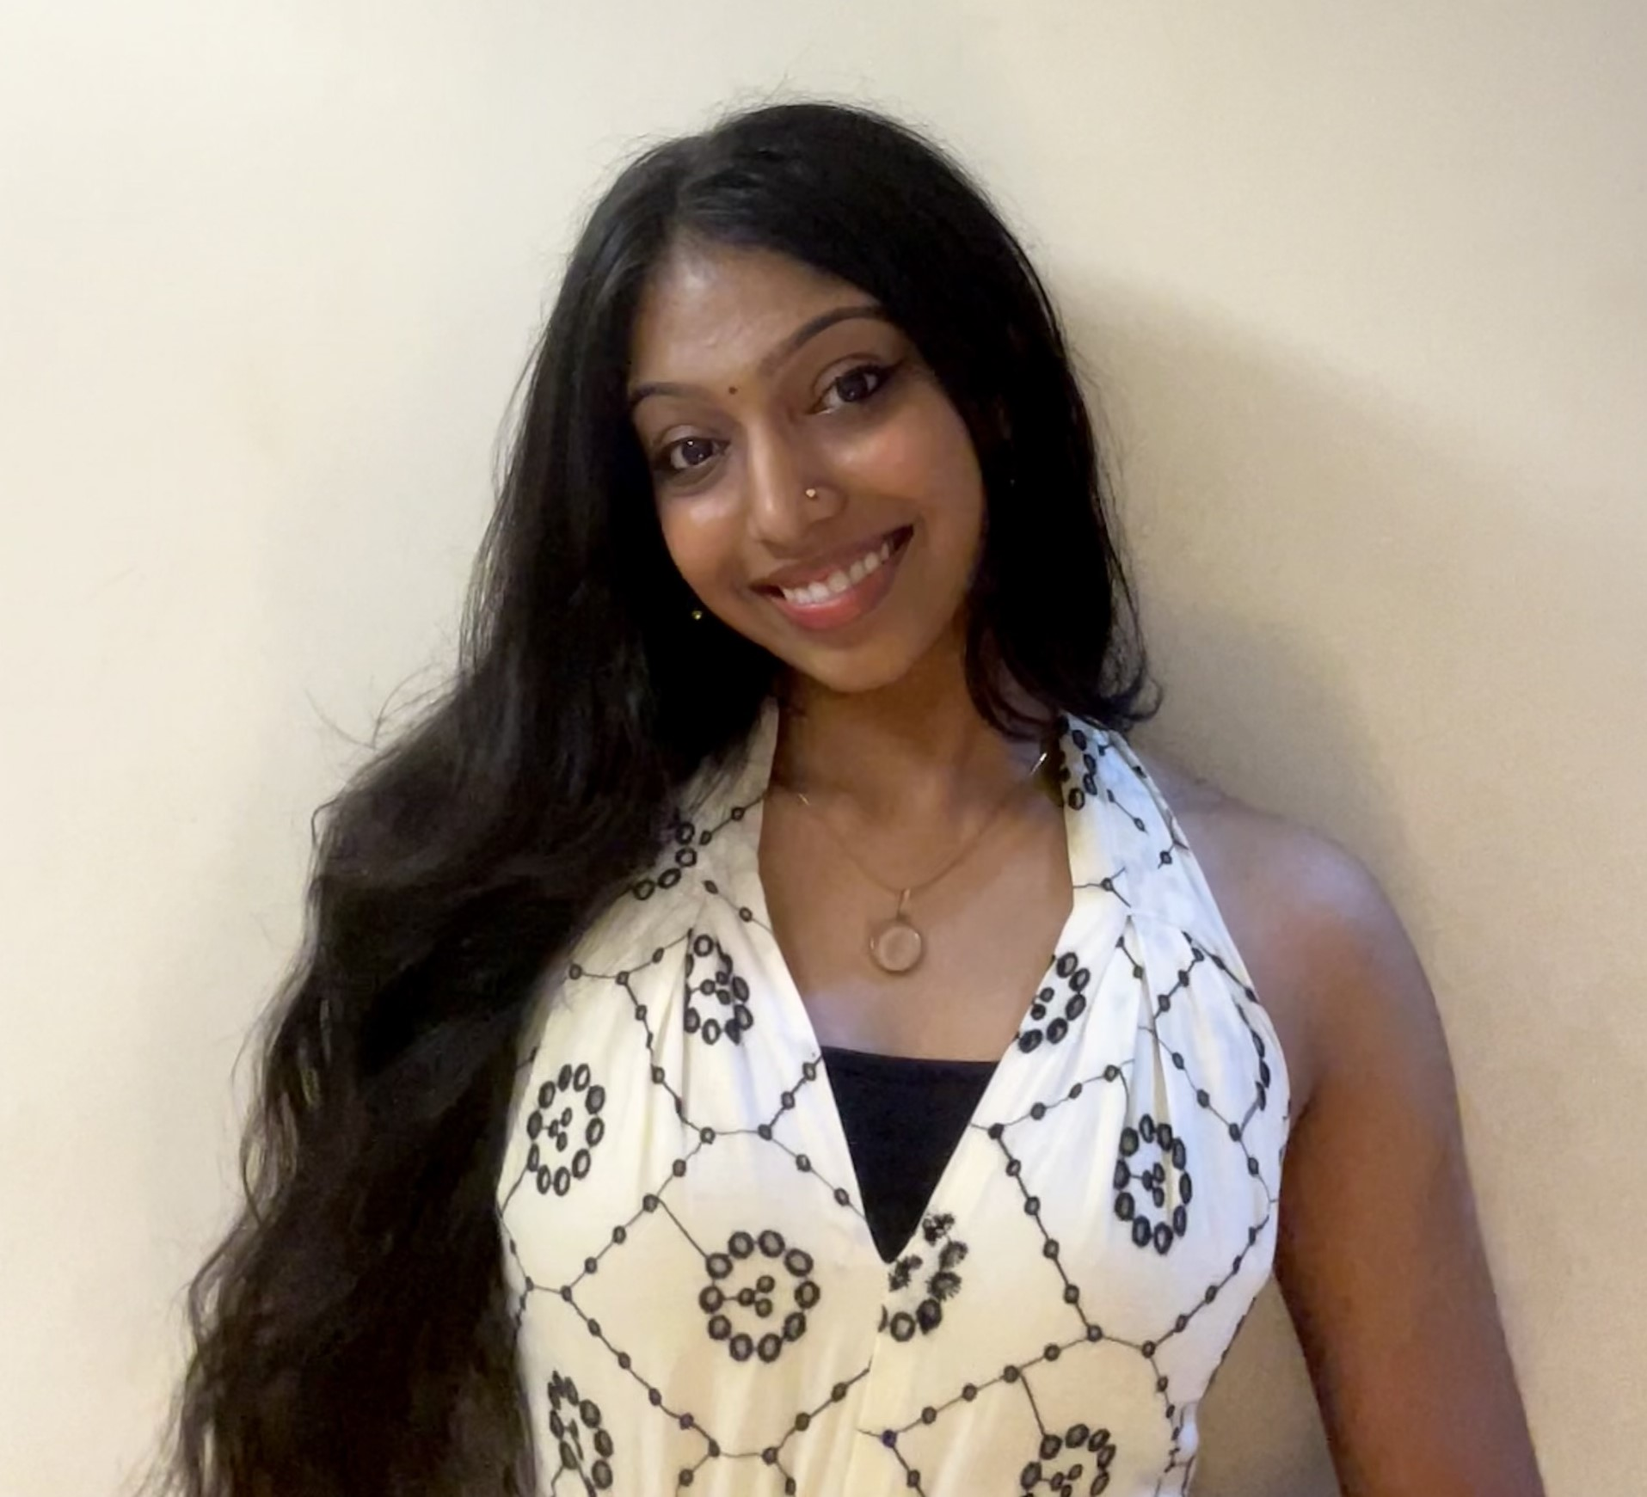
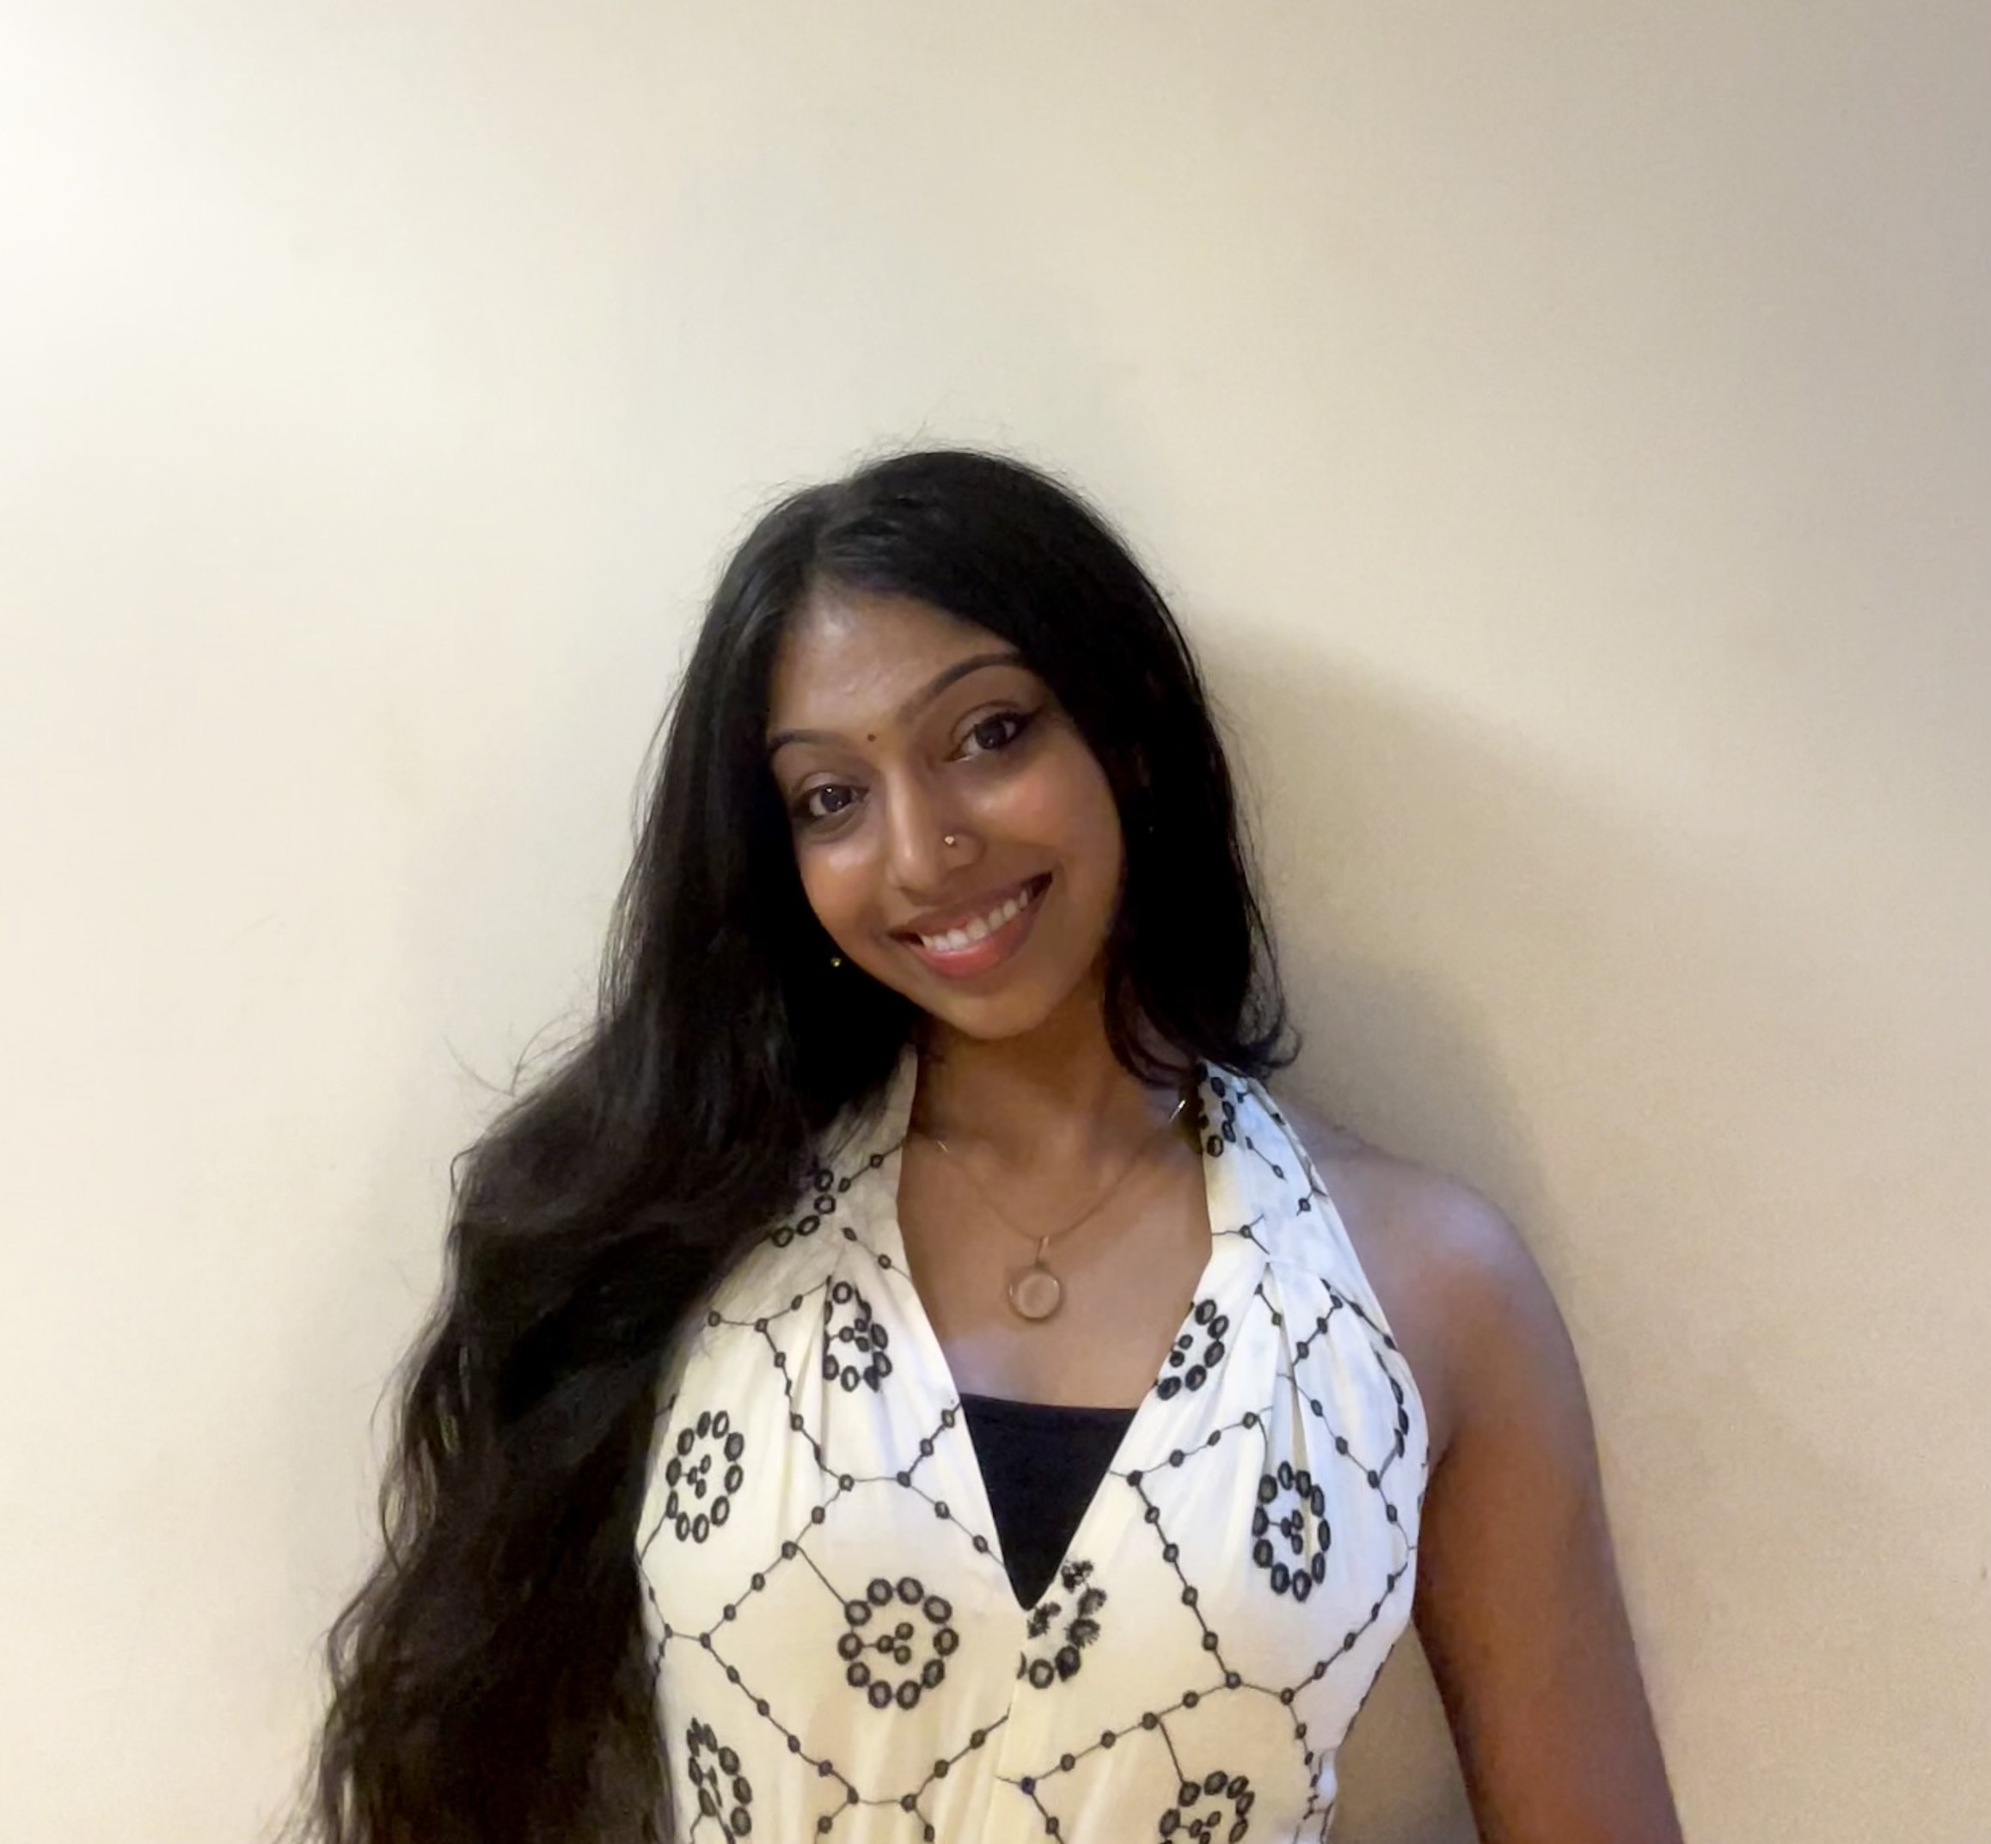
members pic added

diff --git a/app/about/page.tsx b/app/about/page.tsx
@@ -54,16 +54,31 @@ export default function AboutPage() {
     },
   ]
 
-  const executiveTeam = [
+  const coreMembers = [
     {
       name: "Rakshitha",
-      role: "Head",
-      image: "/placeholder.svg?height=100&width=100",
+      role: "President",
+      image: "/members/Rakshitha.jpg",
     },
     {
-      name: "Swayam",
-      role: "Treasurer",
-      image: "/placeholder.svg?height=100&width=100",
+      name: "Swayamprabha",
+      role: "Vice President",
+      image: "/members/swayam.jpg",
+    },
+    {
+      name: "Keerthana",
+      role: "Secretary",
+      image: "/members/keerthanaa.jpg",
+    },
+    {
+      name: "Roshan",
+      role: "Execom Member",
+      image: "/members/Roshan Kumar.jpg",
+    },
+    {
+      name: "Aadhisesha",
+      role: "Execom Member",
+      image: "/members/Aadhisesha.jpg",
     },
   ]
 
@@ -93,27 +108,30 @@ export default function AboutPage() {
     },
     {
       name: "Events",
-      head: { name: "Swetha R Barade", image: "/placeholder.svg?height=100&width=100" },
-      deputy: { name: "Aanisa Maryam", image: "/placeholder.svg?height=100&width=100" },
+      head: { name: "Swetha R Barade", image: "/members/Swetha-R-Barade.jpg" },
+      deputy: { name: "Aanisa Maryam", image: "/members/Anisa Mariyam.jpg" },
       members: [
-        { name: "Roshon R", image: "/placeholder.svg?height=100&width=100" },
-        { name: "Aarya Malviya", image: "/placeholder.svg?height=100&width=100" },
+        { name: "Roshon R", image: "/members/Roshan-support-events-member.jpg" },
+        { name: "Aarya Malviya", image: "/members/Aarya Malviya.jpg" },
       ],
     },
     {
       name: "Industrial Relations",
-      head: { name: "Jeevitha T", image: "/placeholder.svg?height=100&width=100" },
-      deputy: { name: "Veda Varshini R", image: "/placeholder.svg?height=100&width=100" },
+      head: { name: "Jeevitha T", image: "/members/jeevetha.jpg" },
+      deputy: { name: "Veda Varshini R", image: "/members/Veda Varshini image-ieee.jpeg" },
       members: [
-        { name: "K. Mega Sree", image: "/placeholder.svg?height=100&width=100" },
-        { name: "Praveen S", image: "/placeholder.svg?height=100&width=100" },
+        { name: "K. Mega Sree", image: "/members/megasree.k_ industrial relations member.jpg" },
+        { name: "Praveen S", image: "/members/praveen S .jpg" },
       ],
     },
     {
       name: "Design",
-      head: { name: "Srilekha Ramkumar", image: "/placeholder.svg?height=100&width=100" },
-      deputy: { name: "Akshara Achuthan", image: "/placeholder.svg?height=100&width=100" },
-      members: [],
+      head: { name: "Srilekha Ramkumar", image: "/members/Srilekha Ramkumar.jpeg" },
+      deputy: { name: "Akshara Achuthan", image: "/members/Akshara.jpeg" },
+      members: [
+        { name: "Praveena", image: "/members/Praveena R.jpeg" },
+        { name: "Sitheshwar", image: "/members/Sithishwar.JPG" },
+      ],
     },
   ]
 
@@ -285,20 +303,38 @@ export default function AboutPage() {
               </p>
             </div>
           </div>
-          {/* Executive Team */}
-          <div className="mx-auto grid max-w-3xl gap-6 py-8 grid-cols-1 sm:grid-cols-2">
-            {executiveTeam.map((member) => (
-              <Card key={member.name} className="text-center w-56 mx-auto">
-                <CardContent className="p-6">
-                  <Avatar className="w-40 h-40 mx-auto mb-3">
-                    <AvatarImage src={member.image} alt={member.name} />
-                    <AvatarFallback>{member.name[0]}</AvatarFallback>
-                  </Avatar>
-                  <h3 className="text-lg font-bold mb-1">{member.name}</h3>
-                  <Badge variant="secondary">{member.role}</Badge>
-                </CardContent>
-              </Card>
-            ))}
+          {/* Core Members */}
+          <div className="mx-auto max-w-5xl py-8">
+            {/* Top row - 3 members */}
+            <div className="grid grid-cols-1 sm:grid-cols-2 md:grid-cols-3 gap-6 mb-8 justify-items-center">
+              {coreMembers.slice(0, 3).map((member) => (
+                <Card key={member.name} className="text-center w-56">
+                  <CardContent className="p-6">
+                    <Avatar className="w-40 h-40 mx-auto mb-3 rounded-lg">
+                      <AvatarImage src={member.image} alt={member.name} className="rounded-lg" />
+                      <AvatarFallback className="rounded-lg">{member.name[0]}</AvatarFallback>
+                    </Avatar>
+                    <h3 className="text-lg font-bold mb-1">{member.name}</h3>
+                    <Badge variant="secondary">{member.role}</Badge>
+                  </CardContent>
+                </Card>
+              ))}
+            </div>
+            {/* Bottom row - 2 members */}
+            <div className="grid grid-cols-1 sm:grid-cols-2 gap-6 max-w-2xl mx-auto justify-items-center">
+              {coreMembers.slice(3, 5).map((member) => (
+                <Card key={member.name} className="text-center w-56">
+                  <CardContent className="p-6">
+                    <Avatar className="w-40 h-40 mx-auto mb-3 rounded-lg">
+                      <AvatarImage src={member.image} alt={member.name} className="rounded-lg" />
+                      <AvatarFallback className="rounded-lg">{member.name[0]}</AvatarFallback>
+                    </Avatar>
+                    <h3 className="text-lg font-bold mb-1">{member.name}</h3>
+                    <Badge variant="secondary">{member.role}</Badge>
+                  </CardContent>
+                </Card>
+              ))}
+            </div>
           </div>
           {/* Divisions */}
           <div className="mx-auto grid max-w-6xl gap-6 py-12 lg:grid-cols-3 md:grid-cols-2 grid-cols-1">
